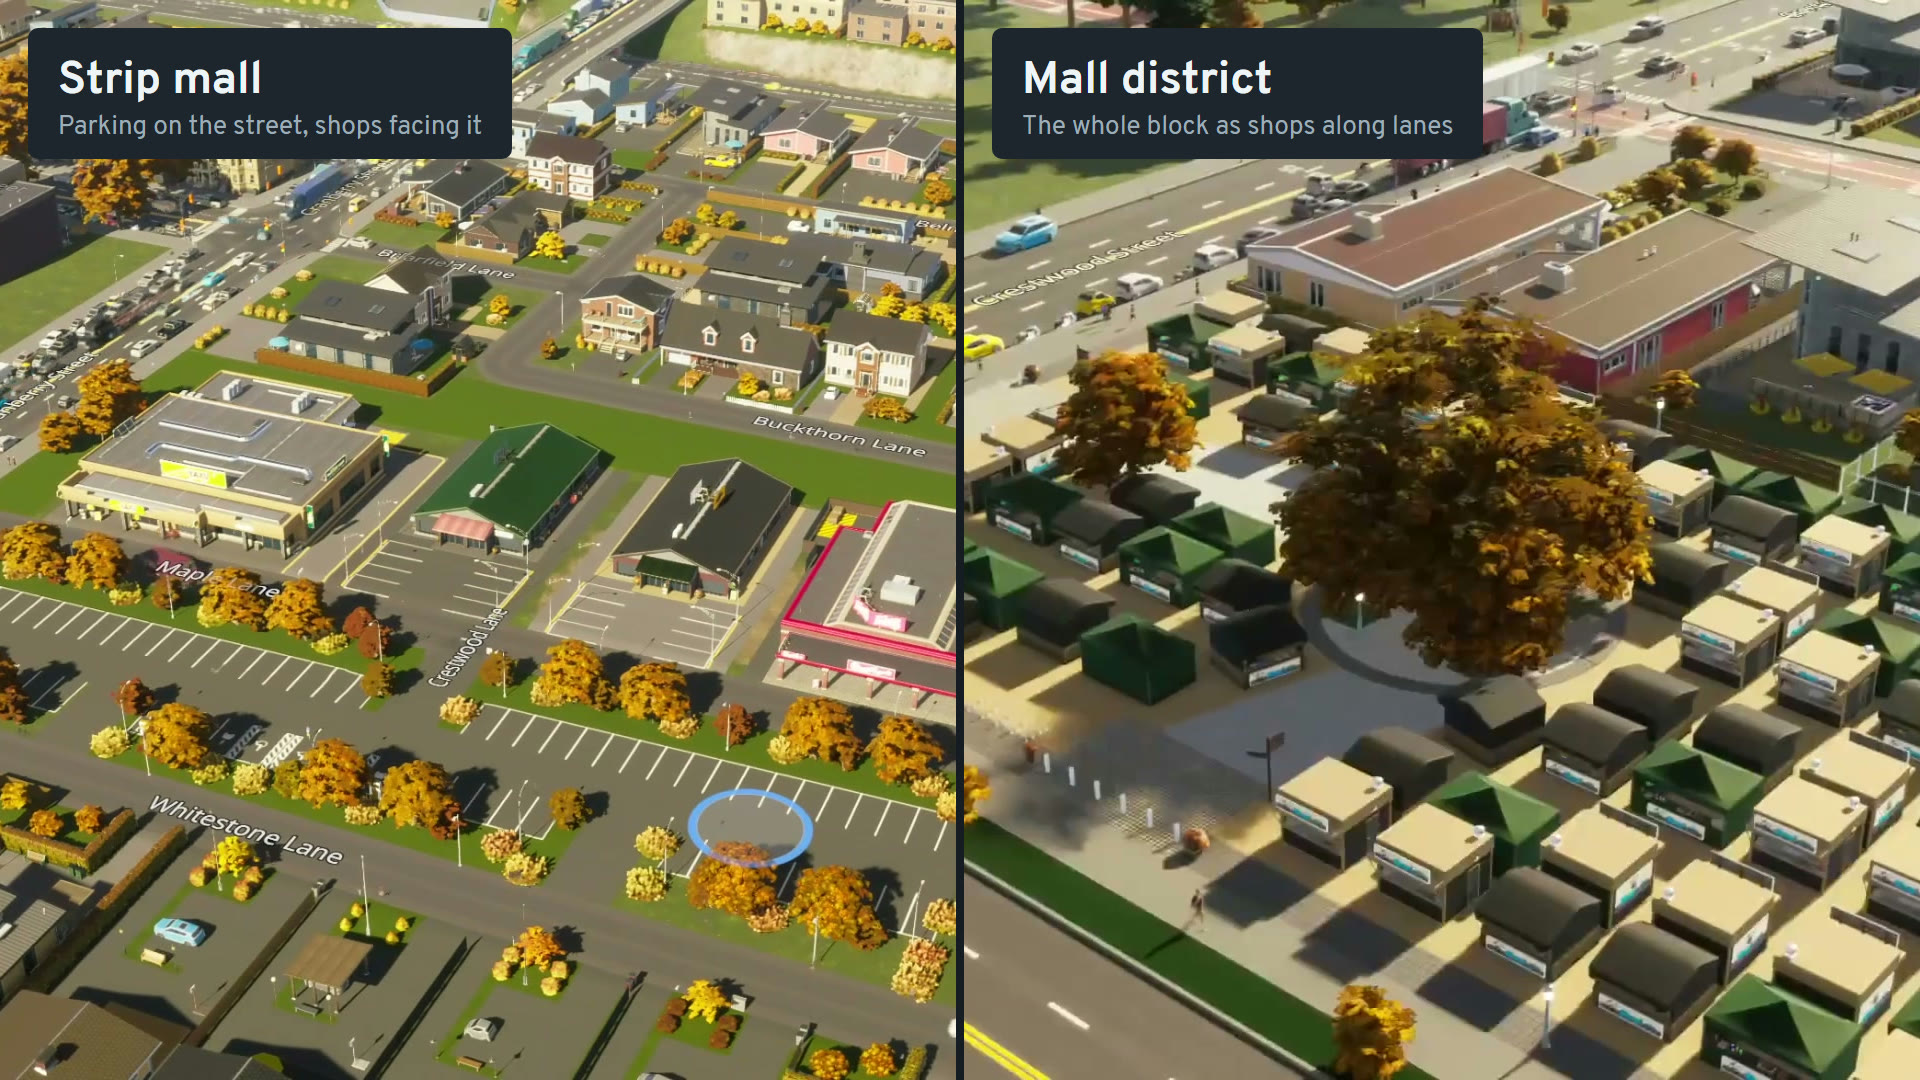
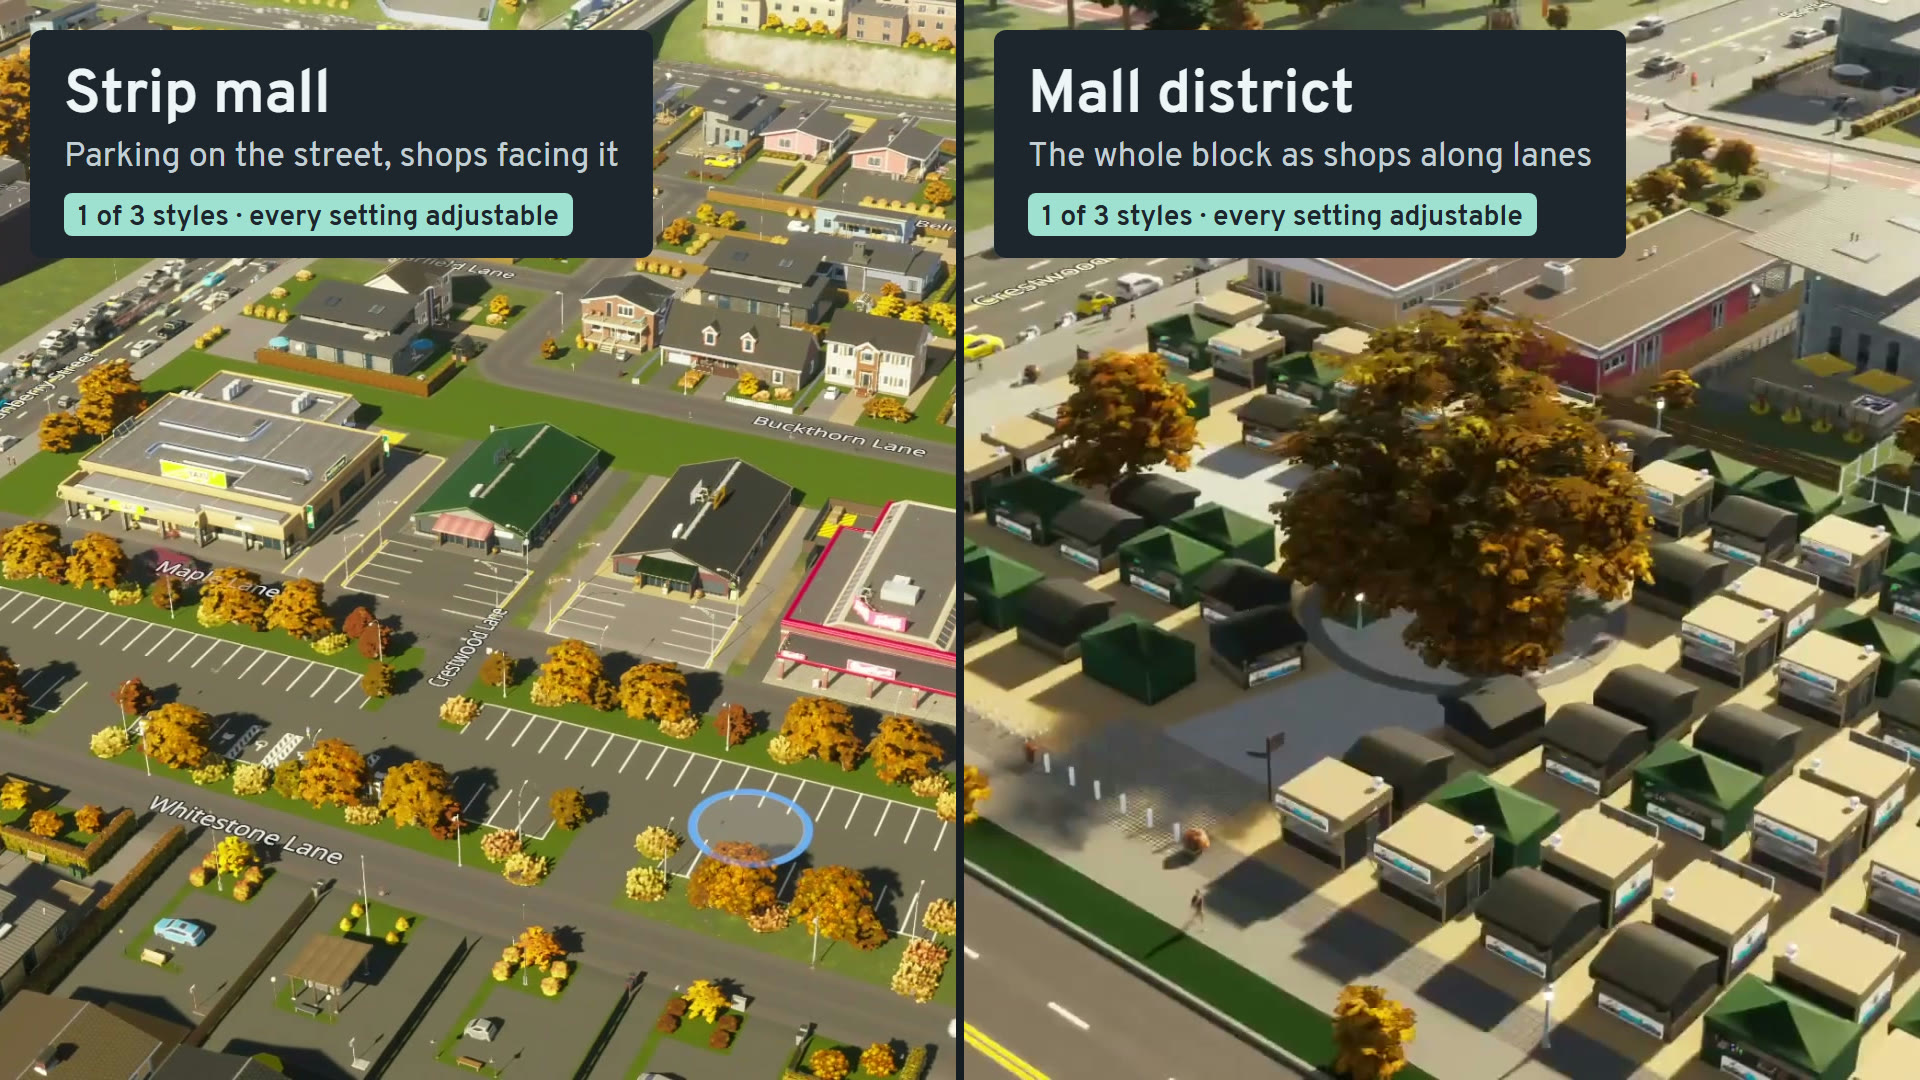
Paradox Mods: readable labels with style counts, 'not just presets' text; source on a private GitHub repo

Changed region(s): [[0.5, 0.0306, 0.8438, 0.2444], [0.0, 0.0306, 0.3438, 0.2444]]

diff --git a/docs/publish/MOD-PAGE.md b/docs/publish/MOD-PAGE.md
@@ -10,14 +10,15 @@ Placemaker
 
 ## Short description
 
-Select an area and turn it into roads, a parking lot, a park, shops or about 30 other kinds of places. You see a
-preview first, then build it in one go.
+Select an area and turn it into roads, parking, parks, shops, nature, farms or sports: 25 types, over 100 styles, every setting adjustable. Preview it, then build it.
 
 ## Long description
 
 Placemaker fills an area for you. Select some land, choose what you want there, check the preview and build it.
 
 [Watch the showcase video on YouTube](https://www.youtube.com/watch?v=ghIR5UhFwj4) (3 minutes).
+
+**Not just presets.** There are 25 types and over 100 styles to start from, and each one has its own settings: layout, paths, planting, surfaces, extras. Change anything and save it as your own style. That makes billions of combinations; the pictures show only a few.
 
 It only uses the game's own assets, so no asset packs are needed.
 

diff --git a/docs/publish/CHECKLIST.md b/docs/publish/CHECKLIST.md
@@ -33,7 +33,7 @@ powershell -File tools/publish/Publish.ps1 -Command Update         # the page on
    code).
 2. **Your co-author's OK.** Grid Road Generator code is in Placemaker, and that mod has no licence yet. The code
    comments disagree too (`Core/Tool/RoadGraph.cs` says MIT, `BuildService.Terrain.cs` says GPL-3.0); settle it.
-3. **Public source code** (the GPL-3.0 requires it): a public GitHub repository, as `<ExternalLink Type="github">`.
+3. **Public source code** (the GPL-3.0 requires it): the code is on GitHub at https://github.com/jackwrichards/placemaker, **private** for now (master and this branch pushed 2026-10-17). Make it public, then add it as `<ExternalLink Type="github">`.
    `Publish.ps1` refuses Public or Unlisted without it.
 4. **The video**: Paradox Mods takes pictures only. Put the showcase on YouTube and add it as
    `<ExternalLink Type="youtube">` (and a line on the page).
